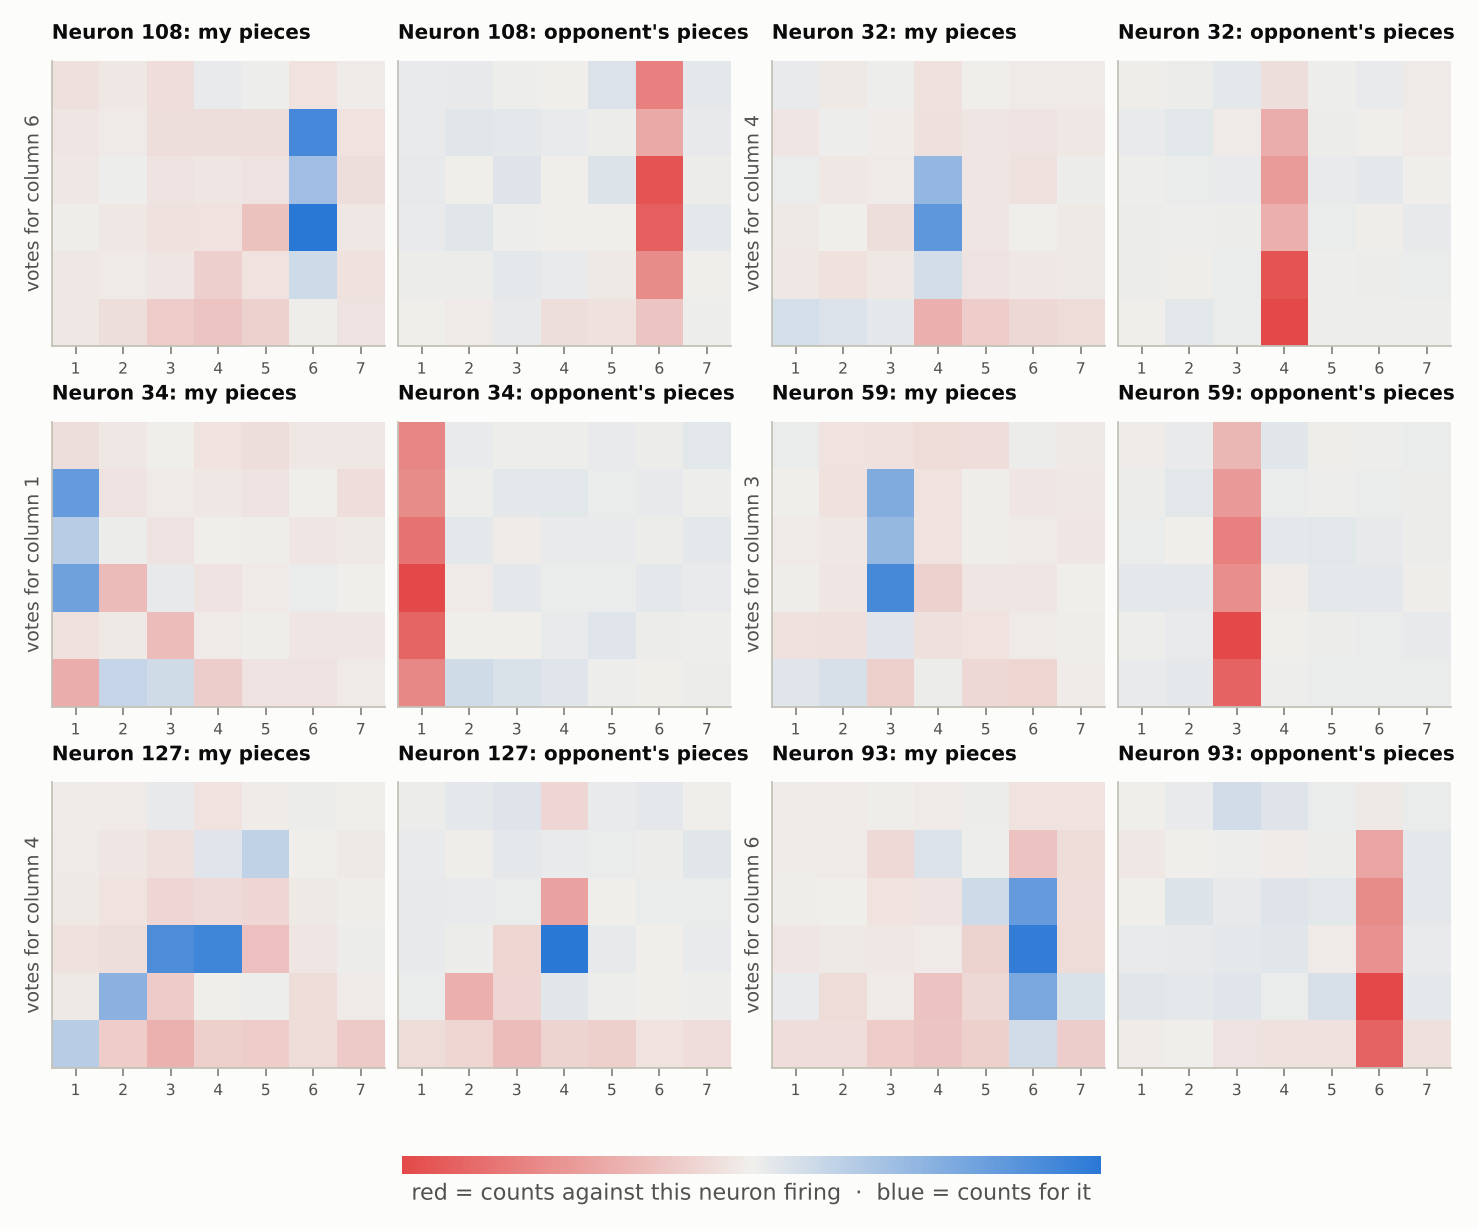
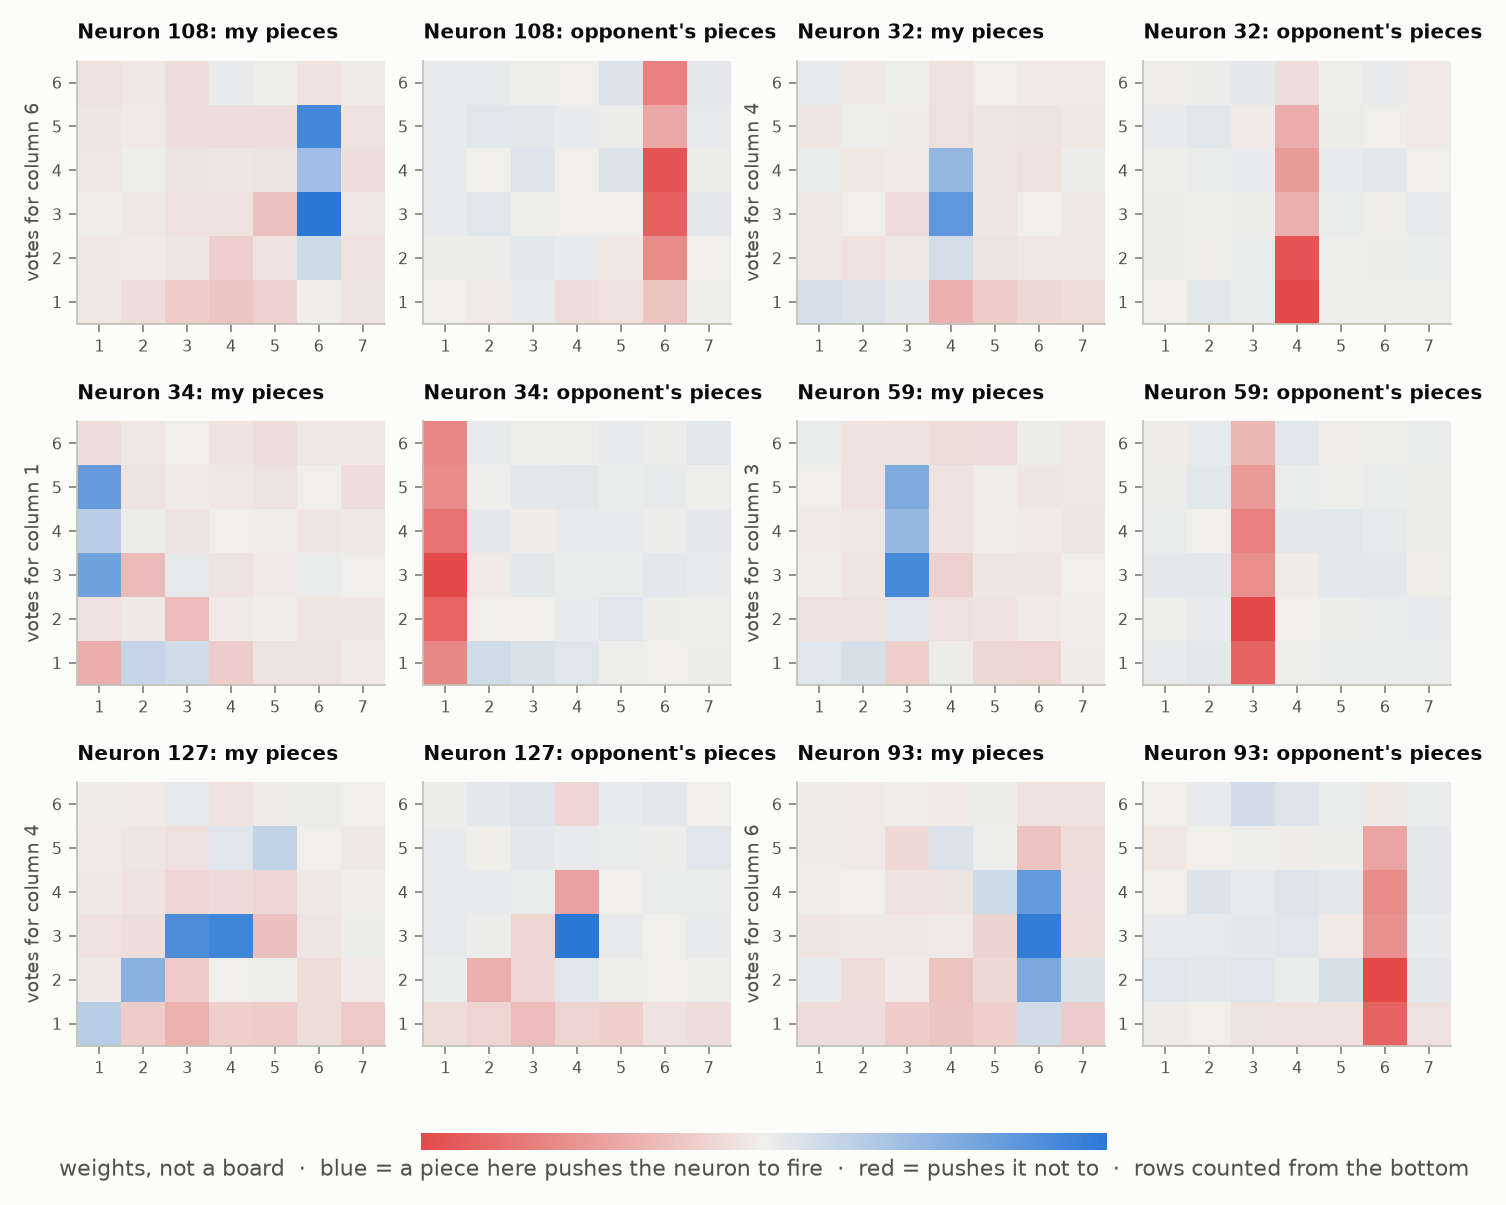
Step 4b section 8: explain what the hidden-neuron pictures show
- Say what one hidden neuron is (84 weights plus a bias, one output)
  and that the picture shows those weights, not a board.
- Explain why a cell can be blue in one grid and red in the other: a
  cell holds at most one piece, so only one of its two weights is used.
- Spell out "votes for column 6" (neuron 108's weight into the column 6
  output is +15.2, the others are near 0).
- Neuron 108 close up: its column 6 weights, two worked boards, why
  several rows are blue (the stack can sit at different heights), and
  how often it fires on real test positions. Corrects the old wording:
  it allows an opponent's piece at the bottom of the column.
- Picture: rows numbered from the bottom, and a clearer key.
- Chart script prints the neuron 108 numbers the notes quote.

diff --git a/scripts/make_stage2_step4_charts.py b/scripts/make_stage2_step4_charts.py
@@ -245,17 +245,47 @@ def chart_hidden_neurons(net) -> list[tuple[int, int, float]]:
                 cmap=DIVERGING, vmin=-limit, vmax=limit,
             )  # fmt: skip
             ax.set_xticks(range(COLS), [str(c + 1) for c in range(COLS)], fontsize=7)
-            ax.set_yticks([])
+            ax.set_yticks(range(ROWS), [str(r + 1) for r in range(ROWS)], fontsize=7)
             ax.grid(False)
             ax.set_title(f"Neuron {j}: {label}", fontsize=9)
         axes[row, 2 * pair].set_ylabel(f"votes for column {best_col[j] + 1}", fontsize=8.5)
         picked.append((int(j), int(best_col[j]) + 1, float(strength[j])))
     bar = fig.colorbar(image, ax=axes, shrink=0.5, location="bottom", aspect=40)
     bar.set_ticks([])
-    bar.set_label("red = counts against this neuron firing  ·  blue = counts for it", color=INK_2)
+    bar.set_label(
+        "weights, not a board  ·  blue = a piece here pushes the neuron to fire  ·  red = pushes"
+        " it not to  ·  rows counted from the bottom",
+        color=INK_2,
+    )  # fmt: skip
     bar.outline.set_visible(False)
     save(fig, "04-hidden-neurons.png")
     return picked
+
+
+def describe_neuron(net, data, j: int = 108, col: int = 5) -> None:
+    """Print the numbers section 8 quotes for one neuron: its weights in one column, its bias
+    and votes, and how often it fires for different column contents on the test positions."""
+    w = net.hidden_weights[:, j].reshape(2, ROWS, COLS)
+    say(f"neuron {j}, column {col + 1} weights by row, bottom first: "
+        f"mine {np.round(w[0, :, col], 1)}, opponent's {np.round(w[1, :, col], 1)}")  # fmt: skip
+    rest = np.delete(w, col, axis=2)
+    say(f"  other weights {rest.min():.1f} to {rest.max():.1f}, bias {net.hidden_biases[j]:.2f}, "
+        f"votes for columns 1-7 {np.round(net.output_weights[j], 1)}")  # fmt: skip
+    fires = nw.forward(net, data.test_inputs).hidden[:, j] > 0.5
+    says_win = nw.predict(net, data.test_inputs)[:, col] > 0.5
+    stacks: dict[str, list[int]] = {}
+    for i, board in enumerate(data.test_boards):
+        me = board.current_player
+        stack = "".join("M" if v == me else "O" for v in board.grid[:, col] if v)  # bottom first
+        stacks.setdefault(stack, []).append(i)
+    for stack in ("MMM", "OMMM", "OOMMM", "MMMO", "OMM"):
+        idx = stacks[stack]
+        say(f"  column {col + 1} = {stack:5} ({len(idx):>3} positions)"
+            f": fires {fires[idx].mean():.0%}, really wins {data.test_answers[idx, col].mean():.0%}"
+            f", network says win {says_win[idx].mean():.0%}")  # fmt: skip
+    blocked = [i for stack, idx in stacks.items() if stack.endswith("O") for i in idx]
+    say(f"  opponent's piece on top ({len(blocked):,} positions)"
+        f": fires {fires[blocked].mean():.1%}")  # fmt: skip
 
 
 DIRECTIONS = {"vertical": [(1, 0)], "horizontal": [(0, 1)], "diagonal": [(1, 1), (1, -1)]}
@@ -349,6 +379,7 @@ def main() -> None:
     for title, i in chart_examples(net, data):
         say(f"example '{title}': test position {i}, moves {list(data.test_boards[i].moves)}")
     say(f"hidden neurons drawn (neuron, column, vote): {chart_hidden_neurons(net)}")
+    describe_neuron(net, data)
     by_direction = wins_spotted_by_direction(net, data)
     say(f"winning moves spotted, by direction (spotted, total): {by_direction}")
     chart_bars(

diff --git a/docs/stage-2/04b-training-on-connect-4.md b/docs/stage-2/04b-training-on-connect-4.md
@@ -124,16 +124,51 @@ The lesson: **how you describe the inputs matters.** The same network, with the 
 
 Nobody told the network about lines of four. So what are its 128 hidden neurons looking for? Their weights tell us.
 
-![Six hidden neurons, each drawn as two 6-by-7 grids of weights, one for "my pieces" and one for "opponent's pieces". Five show a blue stripe of my pieces in one column and a red stripe of opponent's pieces in the same column. One shows blue cells on a rising diagonal](images/04-hidden-neurons.png)
+**First, what one hidden neuron is.** It's the same kind of neuron as in step 1, just with more inputs. It has **84 weights**, one for each input switch, plus a bias. Given a board, it multiplies each switch (1 if that piece is there, 0 if not) by its weight, adds them all up with the bias, and squashes the total into an output between 0 and 1. Near 1 means its pattern is on the board: the neuron *fires*. Near 0 means it isn't.
+
+![Six hidden neurons, each drawn as two 6-by-7 grids of weights, one for "my pieces" and one for "opponent's pieces", with rows numbered 1 to 6 from the bottom. Five show a blue stripe of my pieces in one column and a red stripe of opponent's pieces in the same column. One shows blue cells on a rising diagonal](images/04-hidden-neurons.png)
 
 **How to read this picture.**
-- Each pair of grids is **one hidden neuron**. The left grid shows its weights from the 42 "my piece here?" switches, laid out like the board. The right grid shows its weights from the 42 "opponent's piece here?" switches.
-- **Blue** means a piece in that cell makes this neuron fire more (it counts *for*). **Red** means it counts *against*. Pale means the neuron doesn't care about that cell.
-- These are the six neurons with the strongest vote for one column. "Votes for column 6" means the output for column 6 has a big positive weight from this neuron: when this neuron fires, the network says "column 6 wins".
+- **There's no board here.** The picture shows each neuron's 84 **weights**, read straight out of the trained network and drawn in the shape of the board, so each weight sits on the cell its switch belongs to.
+- Each pair of grids is **one hidden neuron**. The left grid holds its 42 weights for "is **my** piece here?". The right grid holds its 42 weights for "is my **opponent's** piece here?".
+- **Blue** is a positive weight: a piece in that cell pushes the neuron towards firing. **Red** is negative: a piece there pushes it away from firing. Pale is close to 0: the neuron doesn't care about that cell. Empty cells add nothing, because both their switches are 0.
+- **The same cell appears in both grids,** often blue in one and red in the other. That isn't a contradiction. A cell holds at most one piece, so on any board only one of its two weights is used: the left one if my piece is there, the right one if my opponent's is. Blue on the left and red on the right means "I want *my* piece here, and definitely not my opponent's". Blue in *both* means "I want this cell filled, by anyone" (neuron 127 below).
+- Rows are numbered from the **bottom**, like the board: row 1 is the bottom row.
+- **"Votes for column 6"** says which output this neuron feeds. Every hidden neuron's output goes to all 7 output neurons, each through its own weight. Neuron 108's weight into the "column 6 wins" output is **+15.2**; into the other six it's between −0.3 and +0.6. So when neuron 108 fires, it pushes the network's answer for column 6 strongly towards "yes" and hardly touches the rest. These six are the neurons with the biggest vote for any single column.
 
-What they found:
+**Neuron 108, close up.** Its weights outside column 6 are all small (between −1.5 and +0.6), so it mostly ignores the rest of the board. Here are its weights in column 6, and its bias is −3.0:
 
-- **Neuron 108**, top left: a blue stripe of *my* pieces up column 6, and a red stripe of the *opponent's* pieces in column 6. In words: "lots of my pieces in column 6 and none of my opponent's". That's a stack of three, so putting a fourth on top wins. It votes for column 6.
+| Row (from the bottom) | My piece there | Opponent's piece there |
+|---|---|---|
+| 6 | −0.4 | −3.6 |
+| 5 | **+4.7** | −2.3 |
+| 4 | **+2.2** | −5.0 |
+| 3 | **+5.4** | −4.7 |
+| 2 | **+1.0** | −3.2 |
+| 1 | −0.1 | −1.4 |
+
+The two darkest blue cells in the picture are rows 3 and 5. Here it is on two boards, adding up column 6 only (the rest of the board adds a little either way):
+
+- **Column 6 holds, from the bottom: opponent's, mine, mine, mine.** Total = −1.4 + 1.0 + 5.4 + 2.2 − 3.0 = **+4.2**, which squashes to about 0.98, so it fires. Rightly: the next piece lands in row 5 and makes four.
+- **Column 6 holds mine, mine, mine, then an opponent's piece on top.** Total = −0.1 + 1.0 + 5.4 − 5.0 − 3.0 = **−1.7**, which squashes to about 0.15, so it stays quiet. Rightly: the stack is blocked.
+
+**Which row is it aiming at?** None. A move is a column, and gravity decides the row. A stack of three can sit at different heights depending on what's underneath it: rows 1–3, 2–4 or 3–5. One neuron covers all of them with one sum, which is why rows 2 to 5 are all blue, by different amounts. In words, neuron 108 asks: **"Are the top pieces in column 6 three of mine, with no opponent's piece in the way?"** If so, dropping a piece in column 6 makes four, so it votes for column 6.
+
+Checked on the test positions:
+
+| Column 6, from the bottom | Positions | Neuron 108 fires | Column 6 really wins |
+|---|---|---|---|
+| mine, mine, mine | 410 | 73% | 100% |
+| opponent's, mine, mine, mine | 194 | 92% | 100% |
+| opponent's, opponent's, mine, mine, mine | 36 | 83% | 100% |
+| mine, mine, mine, opponent's (blocked) | 232 | 0% | 0% |
+| opponent's, mine, mine (only two of mine on top) | 610 | 19% | 3% (along a row or diagonal) |
+| any column 6 with an opponent's piece on top | 13,998 | 0.0% | |
+
+It isn't perfect on its own. It misses about a quarter of the plain "mine, mine, mine" stacks, and sometimes fires when only two of mine are on top. Other neurons fill the gaps (neuron 93 also votes for column 6). The network's final answer for column 6 says "win" for 94–100% of the real stacks in this table, and for 2% or fewer of the others.
+
+**The other five:**
+
 - **Neurons 32, 34, 59 and 93**: the same idea for columns 4, 1, 3 and 6.
 - **Neuron 127**, bottom left, is cleverer. Blue cells for my pieces climb a diagonal: column 1 row 1, column 2 row 2, column 3 row 3. And row 3 of column 4 is blue in *both* grids: the neuron wants that cell filled, and doesn't care whose piece is there. Then the next piece dropped in column 4 lands in row 4, and completes the diagonal. **It worked out gravity**, from examples alone. It votes for column 4.
 
